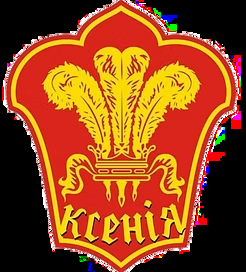
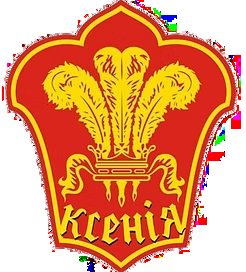
Refine Valeriia landing page per feedback
- Drop hero subtitle line and section eyebrows (clients, vacancies,
  testimonials) that felt redundant.
- Remove non-functional hover highlight on client logo cards.
- Fix testimonial screenshots: switch to a masonry layout so images
  keep their natural size instead of being stretched into fabricated
  green placeholder boxes, matching the presentation slide's layout.
- Strip baked-in black backgrounds from HAVAS, Fast Lane Group and
  Kseniya client logos; recolor Fast Lane Group's white glyph for
  contrast on the light card.
- Update CTA copy to "Готові навчатись у Валерії?" and point the CTA
  button at the course signup form.

Claude-Session: https://claude.ai/code/session_01Ke6c5cPEBQ6C7QmfTPjQzQ

diff --git a/valeriia/index.html b/valeriia/index.html
@@ -39,7 +39,6 @@
         </div>
         <div class="hero-kicker">Знайомимось ближче</div>
         <h1>Валерія Астахова: <span>хедлайнерка курсу</span></h1>
-        <p class="lead">Засновниця рекрутингової агенції UpHuman та бізнес-консультантка, яка веде курс «Своя рекрутингова агенція».</p>
         <a href="#about" class="btn btn-primary">Дізнатись більше</a>
       </div>
       <div class="hero-art">
@@ -82,7 +81,6 @@
   <section class="clients block" id="clients">
     <div class="container">
       <div class="section-title-wrap">
-        <div class="eyebrow">Довіряють нам</div>
         <h2>Клієнти UpHuman</h2>
       </div>
       <div class="clients-grid">
@@ -104,7 +102,6 @@
   <section class="vacancies block" id="vacancies">
     <div class="container">
       <div class="section-title-wrap">
-        <div class="eyebrow">Хто потрібен командам клієнтів</div>
         <h2>Основні вакансії</h2>
       </div>
       <div class="vacancy-grid">
@@ -125,16 +122,15 @@
   <section class="testimonials block" id="testimonials">
     <div class="container">
       <div class="section-title-wrap">
-        <div class="eyebrow">Що кажуть клієнти</div>
         <h2>Відгуки клієнтів</h2>
       </div>
       <div class="testimonial-grid">
         <div class="testimonial-shot"><img src="assets/img/testimonial-1.png" alt="Відгук клієнта в Telegram" loading="lazy" /></div>
         <div class="testimonial-shot"><img src="assets/img/testimonial-2.png" alt="Відгук клієнта в Telegram" loading="lazy" /></div>
-        <div class="testimonial-shot"><img src="assets/img/testimonial-3.png" alt="Відгук клієнта в Telegram" loading="lazy" /></div>
-        <div class="testimonial-shot"><img src="assets/img/testimonial-4.png" alt="Відгук клієнта в Telegram" loading="lazy" /></div>
         <div class="testimonial-shot"><img src="assets/img/testimonial-5.png" alt="Відгук клієнта в Telegram" loading="lazy" /></div>
+        <div class="testimonial-shot"><img src="assets/img/testimonial-3.png" alt="Відгук клієнта в Telegram" loading="lazy" /></div>
         <div class="testimonial-shot"><img src="assets/img/testimonial-6.png" alt="Відгук клієнта в Telegram" loading="lazy" /></div>
+        <div class="testimonial-shot"><img src="assets/img/testimonial-4.png" alt="Відгук клієнта в Telegram" loading="lazy" /></div>
       </div>
     </div>
   </section>
@@ -222,9 +218,9 @@
 
   <section class="cta block--tight">
     <div class="container">
-      <h2>Хочете навчатись у Валерії?</h2>
+      <h2>Готові навчатись у Валерії?</h2>
       <p class="lead">Приєднуйтесь до курсу «Своя рекрутингова агенція» та переймайте досвід практика, який побудував успішну агенцію з нуля.</p>
-      <a href="https://hrme.site/agency" class="btn btn-primary">Перейти на сторінку курсу</a>
+      <a href="https://hrme.site/agency#38c8dc71" class="btn btn-primary">Перейти на сторінку курсу</a>
     </div>
   </section>
 

diff --git a/valeriia/style.css b/valeriia/style.css
@@ -408,13 +408,6 @@ p {
   align-items: center;
   justify-content: center;
   min-height: 96px;
-  transition: transform 0.15s ease, box-shadow 0.15s ease;
-}
-
-.client-card:hover {
-  transform: translateY(-4px);
-  box-shadow: 0 12px 24px rgba(22, 23, 46, 0.08);
-  background: var(--white);
 }
 
 .client-card img {
@@ -468,16 +461,15 @@ p {
 }
 
 .testimonial-grid {
-  display: grid;
-  grid-template-columns: repeat(3, 1fr);
-  gap: 24px;
+  column-count: 2;
+  column-gap: 20px;
 }
 
 .testimonial-shot {
+  break-inside: avoid;
+  margin-bottom: 20px;
   border-radius: var(--radius-md);
   overflow: hidden;
-  box-shadow: 0 12px 28px rgba(22, 23, 46, 0.08);
-  background: #dcefc0;
 }
 
 .testimonial-shot img {
@@ -699,7 +691,6 @@ footer .footer-brand img {
 
   .clients-grid { grid-template-columns: repeat(3, 1fr); }
   .vacancy-grid { grid-template-columns: 1fr 1fr; }
-  .testimonial-grid { grid-template-columns: 1fr 1fr; }
   .audio-grid { grid-template-columns: 1fr; }
   .facts-list { grid-template-columns: 1fr; }
 
@@ -714,6 +705,6 @@ footer .footer-brand img {
   h2 { font-size: 24px; }
   .clients-grid { grid-template-columns: repeat(2, 1fr); }
   .vacancy-grid { grid-template-columns: 1fr; }
-  .testimonial-grid { grid-template-columns: 1fr; }
+  .testimonial-grid { column-count: 1; }
   .block { padding: 48px 0; }
 }
